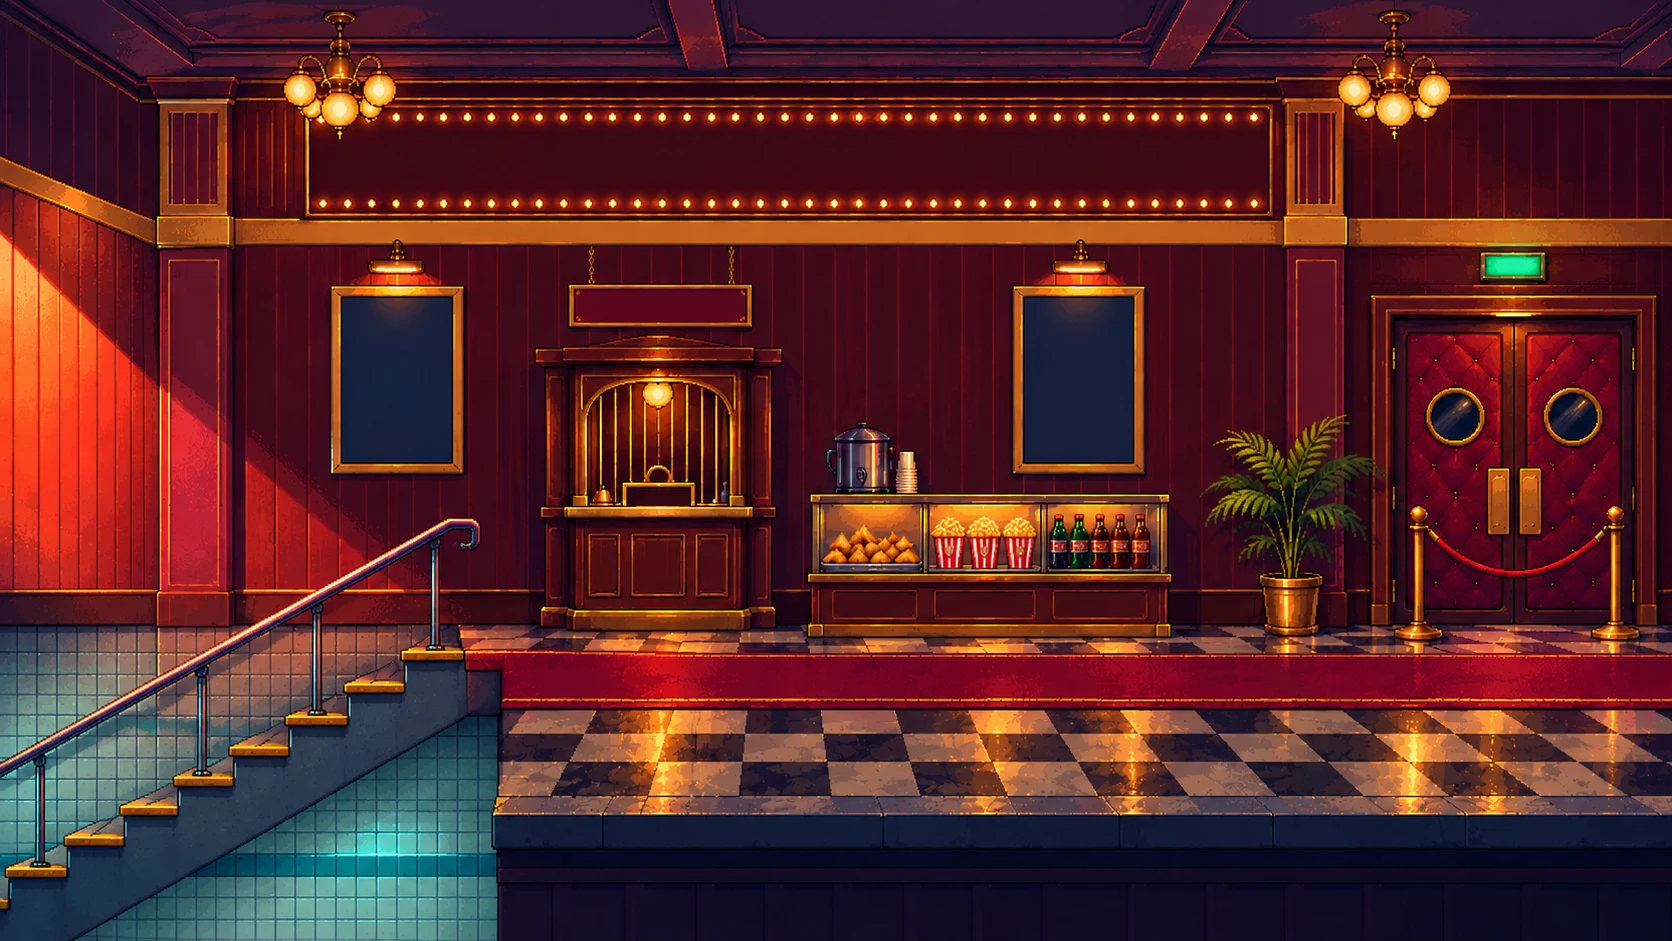
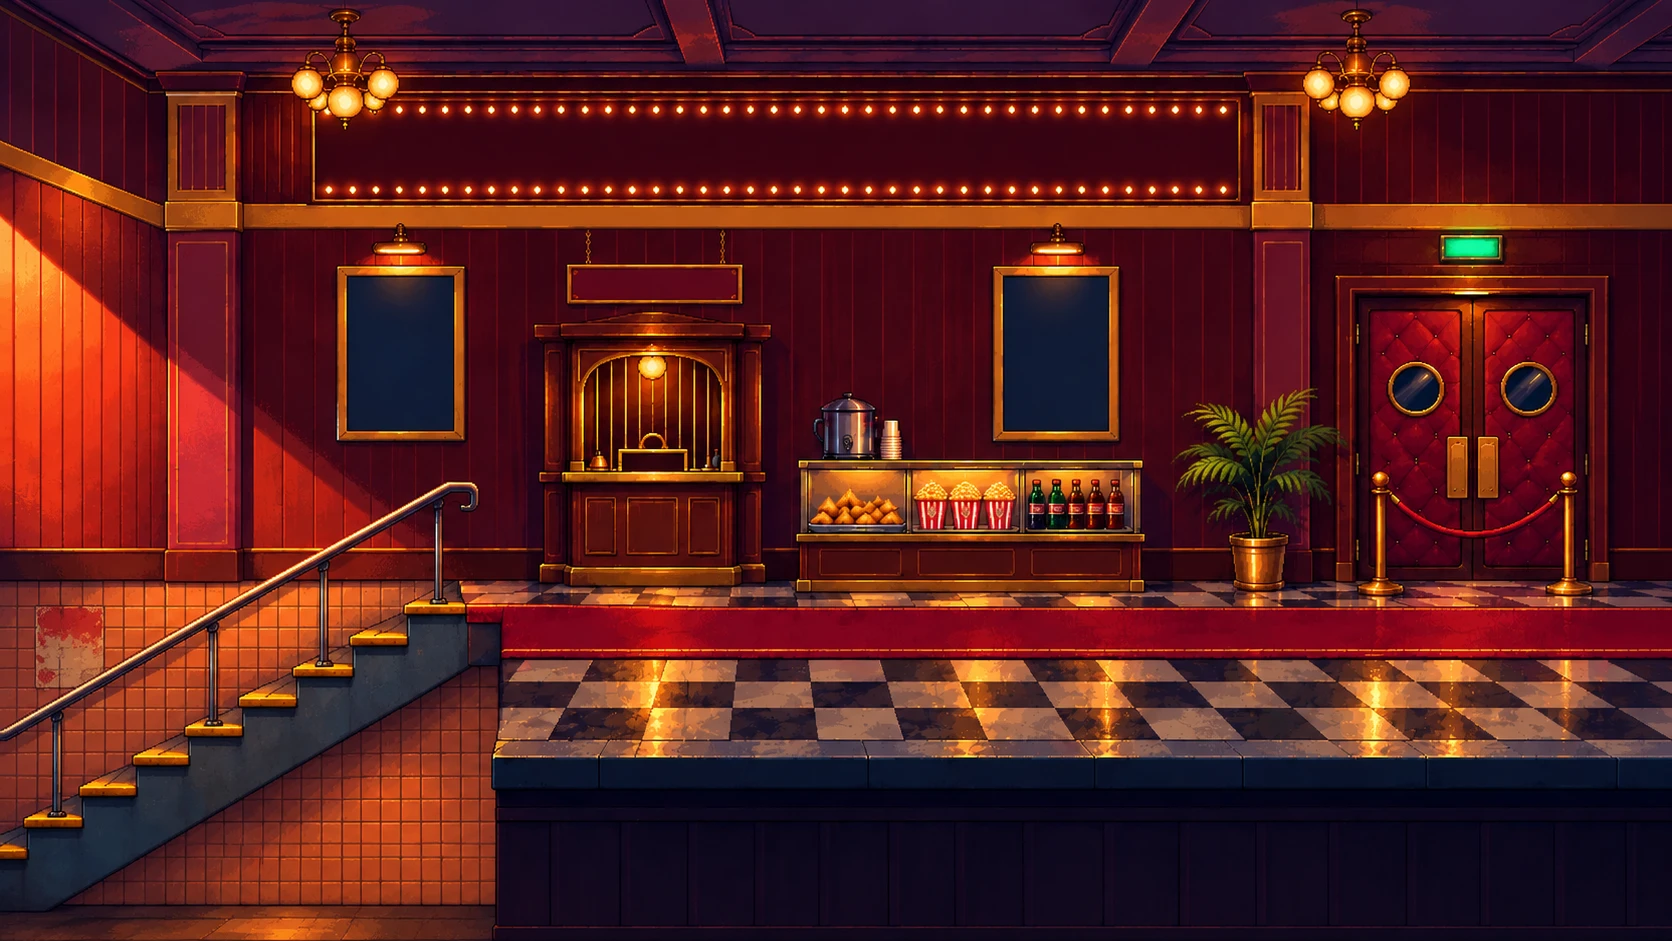
Cinema lobby: new art, stairs aligned step-for-step with the subway
Swaps in the new lobby image and re-measures its stairs, upper floor,
ticket window, doors, marquee, sign and poster frames. The lobby is
now placed by a shared step edge (CINEMA.lobby.join): its first full
step continues the subway's last one at the same rise and run, so it
overlaps the subway strip by a few columns and the staircase and
handrail read as one flight.

diff --git a/js/main.js b/js/main.js
@@ -134,13 +134,15 @@
   const CINEMA = {
     w: 1672, h: 941,
     lobby: {
-      stairs: [[30, 875], [470, 662]],   // continues the subway stairs up into the lobby
-      floor: 678, ticket: 660, door: 1515,
+      // the same step edge in both images: the lobby's first full step continues the subway's last one
+      join: { lobby: [25, 815], subway: [6534, 330] },
+      stairs: [[30, 815], [440, 602]],   // his feet from the first lobby step to the top landing
+      floor: 600, ticket: 655, door: 1470,
       quads: {
-        marquee: [[320, 122], [1262, 122], [1262, 198], [320, 198]],
-        sign: [[572, 288], [748, 288], [748, 322], [572, 322]],
-        poster1: [[340, 296], [455, 296], [455, 466], [340, 466]],
-        poster2: [[1022, 296], [1138, 296], [1138, 466], [1022, 466]],
+        marquee: [[330, 115], [1228, 115], [1228, 182], [330, 182]],
+        sign: [[574, 270], [738, 270], [738, 299], [574, 299]],
+        poster1: [[349, 278], [452, 278], [452, 427], [349, 427]],
+        poster2: [[1005, 278], [1106, 278], [1106, 425], [1005, 425]],
       },
     },
     front: {
@@ -233,9 +235,9 @@
       return { x: Math.round(b.x * ss), y: Math.round(b.y * ss), iw: Math.round(b.h * f.w / f.h * ss), ih: Math.round(b.h * ss) };
     });
     // 4. cinema: the lobby's stairs pick up where the subway stairs leave the screen
-    const C = CINEMA, cs = ss;
-    const cinema = {
-      x: subway.x + subway.w, y: Math.round(subway.y + (SUBWAY.stairs[1][1] - C.lobby.stairs[0][1]) * cs),
+    const C = CINEMA, cs = ss, J = C.lobby.join;
+    const cinema = {   // overlaps the subway's last few columns so the step edges line up
+      x: Math.round(subway.x + (J.subway[0] - J.lobby[0]) * cs), y: Math.round(subway.y + (J.subway[1] - J.lobby[1]) * cs),
       w: Math.round(C.w * cs), h: Math.round(C.h * cs),
     };
     L.ty = cinema.y + Math.round(C.lobby.floor * cs);                 // lobby floor; later scenes share it

diff --git a/index.html b/index.html
@@ -8,7 +8,7 @@
   <link rel="preconnect" href="https://fonts.googleapis.com" />
   <link rel="preconnect" href="https://fonts.gstatic.com" crossorigin />
   <link href="https://fonts.googleapis.com/css2?family=Press+Start+2P&family=Silkscreen&family=VT323&family=Noto+Sans+Devanagari:wght@700&display=swap" rel="stylesheet" />
-  <link rel="stylesheet" href="styles.css?v=1790707751" />
+  <link rel="stylesheet" href="styles.css?v=1790708520" />
 </head>
 <body class="ride" data-location="street">
   <a class="skip-link" href="#subway">Skip to projects</a>
@@ -168,8 +168,8 @@
   <!-- train wipe used when boarding a project -->
   <div class="train-wipe" aria-hidden="true"><div class="train-car"></div></div>
 
-  <script src="js/data.js?v=1790707751"></script>
-  <script src="js/sprite.js?v=1790707751"></script>
-  <script src="js/main.js?v=1790707751"></script>
+  <script src="js/data.js?v=1790708520"></script>
+  <script src="js/sprite.js?v=1790708520"></script>
+  <script src="js/main.js?v=1790708520"></script>
 </body>
 </html>

diff --git a/project.html b/project.html
@@ -7,8 +7,8 @@
   <link rel="preconnect" href="https://fonts.googleapis.com" />
   <link rel="preconnect" href="https://fonts.gstatic.com" crossorigin />
   <link href="https://fonts.googleapis.com/css2?family=Press+Start+2P&family=Silkscreen&family=VT323&family=Noto+Sans+Devanagari:wght@700&display=swap" rel="stylesheet" />
-  <link rel="stylesheet" href="styles.css?v=1790707751" />
-  <link rel="stylesheet" href="project.css?v=1790707751" />
+  <link rel="stylesheet" href="styles.css?v=1790708520" />
+  <link rel="stylesheet" href="project.css?v=1790708520" />
 </head>
 <body class="project-page" data-location="subway">
   <header class="hud">
@@ -63,7 +63,7 @@
 
   <div class="pixel-wipe" aria-hidden="true"></div>
 
-  <script src="js/data.js?v=1790707751"></script>
+  <script src="js/data.js?v=1790708520"></script>
   <script>
     (function () {
       const list = SITE.projects;

diff --git a/js/sprite.js b/js/sprite.js
@@ -34,7 +34,7 @@
   const HOLE = { dx: 35, w: 64, h: 16 }; // manhole centre offset from the anchor, in the crouch frames
 
   const img = new Image();
-  img.src = "assets/character/sheet.webp?v=1790707751";
+  img.src = "assets/character/sheet.webp?v=1790708520";
   let ready = false;
   const onReady = [];
   img.onload = () => { ready = true; onReady.forEach((f) => f()); };
